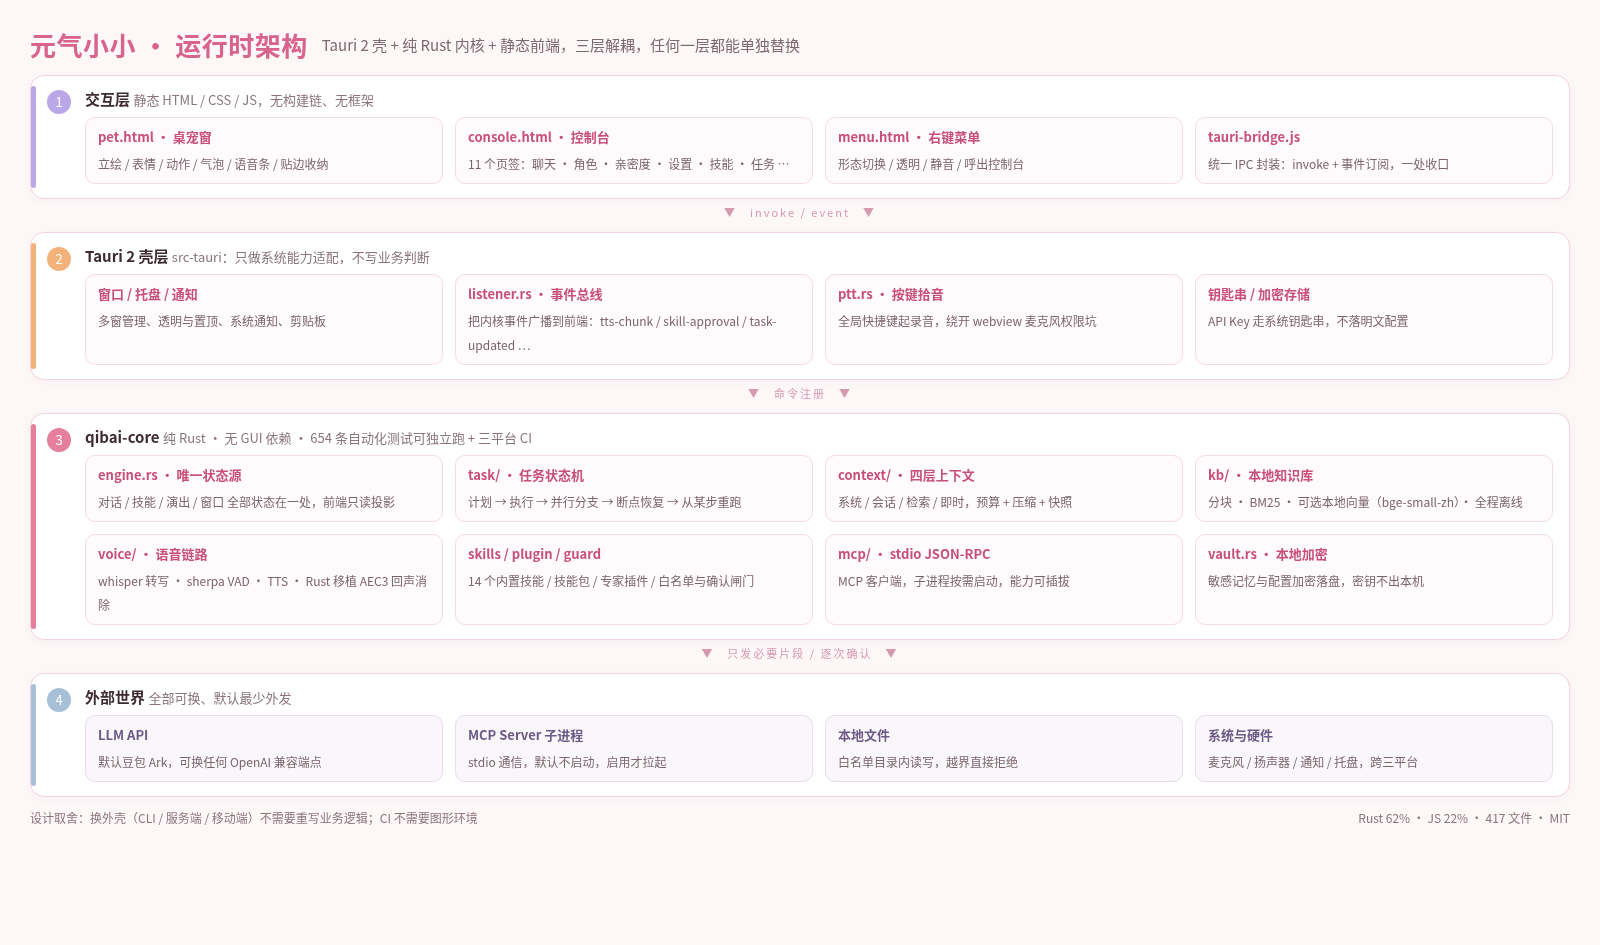
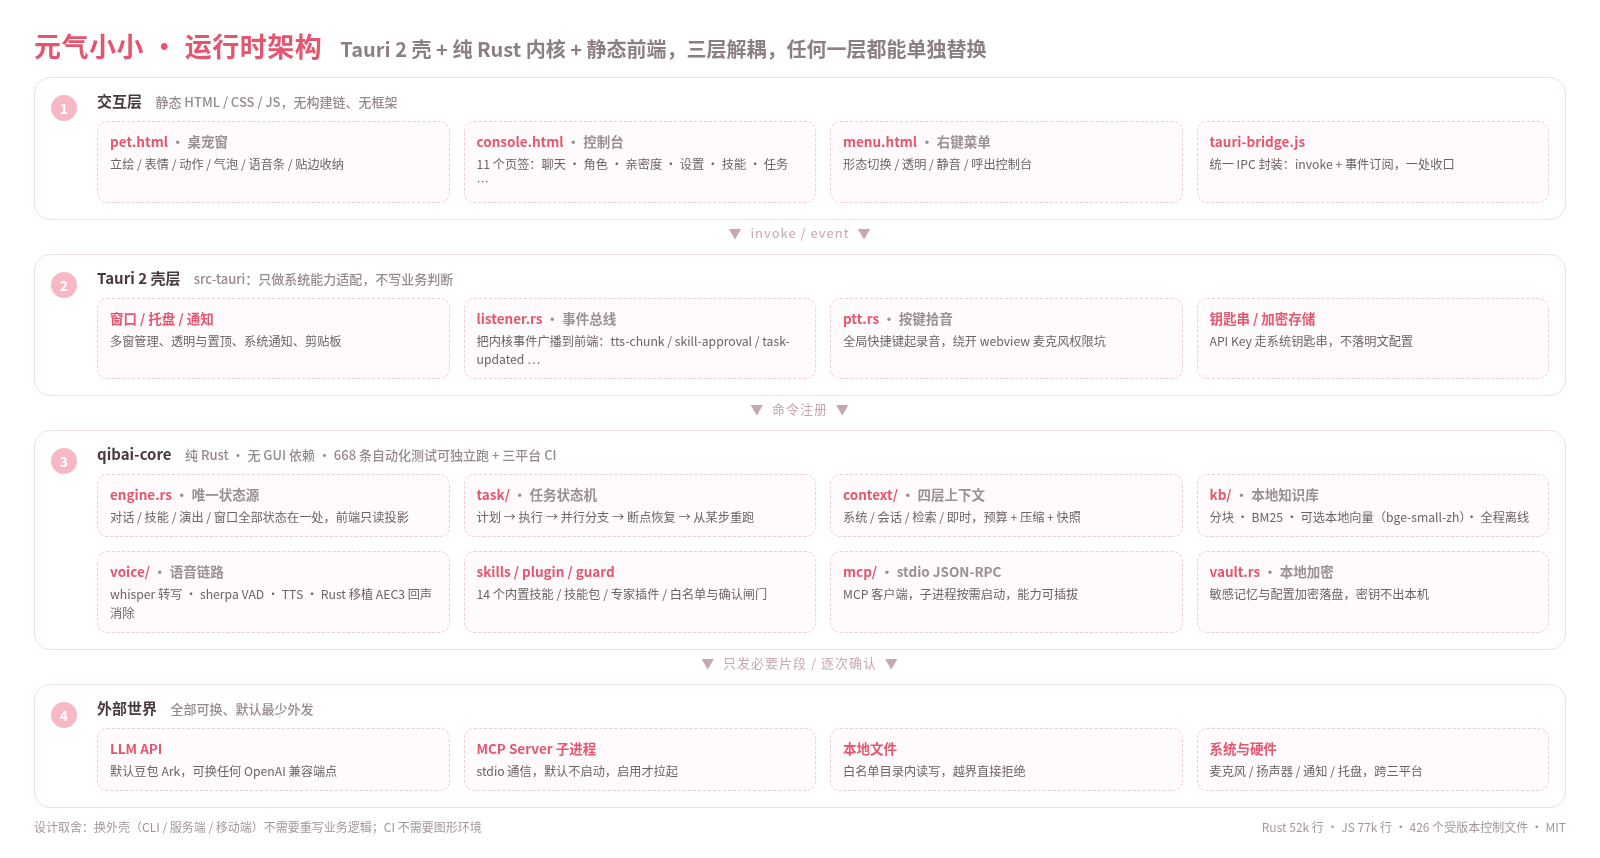
docs(assets): 三项许可核实落定 + 文档三图定版
- 许可：whisper.cpp（MIT，官方 release 二进制非 fork）、sherpa-onnx（Apache-2.0）、
  piper huayan 音色（仓库 MIT / 训练数据许可 Unknown，不做商用保证、不随包分发）、
  sonora（BSD-3-Clause）逐条写入中英双语声明，去掉全部【待核实】
- architecture.png 重制：口径由 654/648 统一为 668 条测试，去掉过期文件数口径
- console-voice.png 裁掉底部浮动按钮遮挡，1100×648
- kb-context.png 同步到对外副本（开源准备）

diff --git a/THIRD-PARTY-NOTICES.md b/THIRD-PARTY-NOTICES.md
@@ -15,17 +15,17 @@
 
 下列组件由第三方提供，适用其**各自许可**。仓库不打包这些组件的二进制与权重，仅提供获取脚本或运行时调用方式。
 
-> ⚠ **标【待核实】的条目，公开前请以你实际使用的版本内附 LICENSE 为准**，本表只记录预期的上游许可，不作为法律结论。
+> ✅ 语音链路 4 条与 `sonora` 的许可已按上游 LICENSE / 模型页核对（2026-11）。仍建议公开前复核心版本内附 LICENSE；本表为事实记录，不构成法律结论。
 
 ### 一、语音链路
 
 | 组件 | 版本 / 形态 | 预期许可 | 仓库内是否分发 | 说明 |
 |---|---|---|---|---|
-| **whisper.cpp** | 编译产物 `libwhisper.so.1.9.5`、`whisper-server`、`whisper-cli` | MIT（上游 `ggml-org/whisper.cpp`）【待核实你所用 fork】 | ❌ 由 `fetch_resources.sh` 从官方 release 下载 | 调用方式为独立进程 / 动态库，非源码内联 |
+| **whisper.cpp** | 编译产物 `libwhisper.so.1.9.5`、`whisper-server`、`whisper-cli` | **MIT**（已核对上游 `ggml-org/whisper.cpp` 的 LICENSE 原文） | ❌ 由 `fetch_resources.sh` 从官方 release（tag `b5454`）下载 | 本项目**未改造源码、非自建 fork**，只用官方预编译二进制；以独立进程 / 动态库调用 |
 | **Whisper 模型权重** `ggml-base.bin` / `ggml-small.bin` | 142 MB / ~466 MB | MIT（OpenAI Whisper 权重） | ❌ 脚本从 `hf-mirror.com/ggerganov/whisper.cpp` 下载 | 首次运行必须下载 |
-| **sherpa-onnx / Paraformer** | `paraformer.onnx`（233 MB） | Apache-2.0【待核实】 | ❌ 不入库 | 备用中文流式识别引擎 |
+| **sherpa-onnx / Paraformer** | `paraformer.onnx`（233 MB）+ `tokens.txt`、`vad.onnx`、`punc.onnx` | **Apache-2.0**（已核对 `k2-fsa/sherpa-onnx` 的 LICENSE；模型页标注 `license: apache-2.0`） | ❌ 不入库，由 `fetch_resources.sh` 下载并逐文件 sha256 校验 | 备用中文离线识别引擎（paraformer-zh int8） |
 | **piper** 引擎 | 可执行程序 | MIT | ❌ | 本地离线 TTS |
-| **piper 音色** `zh_CN-huayan-medium.onnx` | 61 MB | **各音色独立许可，部分限非商用**【必须核实】 | ❌ 不入库，建议用户自行从 `rhasspy/piper-voices` 下载 | **若该音色限非商用，不得随本项目安装包分发** |
+| **piper 音色** `zh_CN-huayan-medium.onnx` | 61 MB | 仓库整体 MIT；但该音色 MODEL_CARD 记载训练数据集 `PlayVoice/HuaYan_TTS` 许可为 **Unknown** | ❌ 不入库、不随安装包分发；用户自行从 `rhasspy/piper-voices` 下载并自判用途 | **结论：不做商用授权保证**；本项目默认 TTS 走 espeak-ng（捆绑）+ edge-tts（在线），piper 仅作可选本地女声 |
 | **bge-small-zh-v1.5**（向量模型） | `model.onnx` 91 MB + `vocab.txt` | MIT（BAAI，上游 `BAAI/bge-small-zh-v1.5`） | ❌ 不进安装包、不入库 | 知识库语义检索用；用户在应用内按需下载（Release `kb-model-v1` 仅做镜像分发，权重版权归原作者） |
 | **espeak-ng** | 二进制 + `espeak-ng-data` 语音数据（约 26 MB，解包到 `src-tauri/tts-espeak/`） | **GPL-3.0** | ❌ 不入库，`fetch_resources.sh` 从 Debian 官方包（`deb.debian.org`，1.52.0）解包组装，无需 sudo | 以独立可执行程序调用；若你选择把该二进制一起分发，须同时提供 GPL-3.0 全文与源码获取地址（https://github.com/espeak-ng/espeak-ng） |
 
@@ -38,7 +38,7 @@
 | `tokio` / `tokio-tungstenite` / `futures-util` | 异步运行时、WebSocket | MIT |
 | `reqwest`（`rustls-tls`） | HTTP 客户端 | MIT / Apache-2.0 |
 | `cpal` / `rodio` / `rubato` | 音频采集、播放、重采样 | MIT / Apache-2.0 |
-| `sonora` | WebRTC AEC3 纯 Rust 移植（回声消除） | 【待核实】 |
+| `sonora` | WebRTC AEC3 纯 Rust 移植（回声消除） | **BSD-3-Clause**（crates.io `sonora 0.3.0`） |
 | `tract-onnx` | 纯 Rust ONNX 推理（本地向量模型，免 C/C++ 依赖） | MIT / Apache-2.0 |
 | `aes-gcm` / `pbkdf2` / `sha2` / `rand` / `zeroize` | 本地保险箱加密 | MIT / Apache-2.0 |
 | `keyring` | 系统钥匙串 | MIT / Apache-2.0 |
@@ -79,17 +79,17 @@ This repository's own source is released under **MIT** (see `LICENSE`, which con
 
 The components below are provided by third parties and follow **their own licences**. This repository does not bundle their binaries or weights — it only provides fetch scripts or a runtime calling convention.
 
-> ⚠ **For items marked [TO VERIFY], before publishing, defer to the LICENSE bundled with the version you actually use.** This table records the expected upstream licence only and is not a legal conclusion.
+> ✅ Licences for the four speech-pipeline items and `sonora` were checked against upstream LICENSE files / model pages (Nov 2026). Re-check the bundled LICENSE of the exact version before publishing; this table is a factual record, not a legal conclusion.
 
 ### 1. Speech pipeline
 
 | Component | Version / form | Expected licence | Distributed in repo | Notes |
 |---|---|---|---|---|
-| **whisper.cpp** | Build artefacts `libwhisper.so.1.9.5`, `whisper-server`, `whisper-cli` | MIT (upstream `ggml-org/whisper.cpp`) [TO VERIFY for the fork you use] | ❌ downloaded from the official release by `fetch_resources.sh` | Called as a separate process / shared library, not inlined source |
+| **whisper.cpp** | Build artefacts `libwhisper.so.1.9.5`, `whisper-server`, `whisper-cli` | **MIT** (upstream `ggml-org/whisper.cpp` LICENSE checked) | ❌ downloaded by `fetch_resources.sh` from the official release (tag `b5454`) | **No source fork or modification** — official prebuilt binaries only, called as a separate process / shared library |
 | **Whisper model weights** `ggml-base.bin` / `ggml-small.bin` | 142 MB / ~466 MB | MIT (OpenAI Whisper weights) | ❌ downloaded by script from `hf-mirror.com/ggerganov/whisper.cpp` | Required on first run |
-| **sherpa-onnx / Paraformer** | `paraformer.onnx` (233 MB) | Apache-2.0 [TO VERIFY] | ❌ not in repo | Alternative Chinese streaming recogniser |
+| **sherpa-onnx / Paraformer** | `paraformer.onnx` (233 MB) + `tokens.txt`, `vad.onnx`, `punc.onnx` | **Apache-2.0** (`k2-fsa/sherpa-onnx` LICENSE checked; model card states `license: apache-2.0`) | ❌ not in repo; downloaded and sha256-verified by `fetch_resources.sh` | Alternative Chinese offline recogniser (paraformer-zh int8) |
 | **piper** engine | Executable | MIT | ❌ | Local offline TTS |
-| **piper voice** `zh_CN-huayan-medium.onnx` | 61 MB | **Each voice has its own licence; some are non-commercial only** [MUST VERIFY] | ❌ not in repo; users should download it themselves from `rhasspy/piper-voices` | **If this voice is non-commercial only, it must not ship inside an installer for this project** |
+| **piper voice** `zh_CN-huayan-medium.onnx` | 61 MB | Repo as a whole is MIT; this voice's MODEL_CARD lists its training dataset `PlayVoice/HuaYan_TTS` as **Unknown** | ❌ not in repo, not shipped in installers; users download from `rhasspy/piper-voices` and judge their own use | **Conclusion: no commercial clearance is asserted**; default TTS is espeak-ng (bundled) + edge-tts (online); piper is optional |
 | **bge-small-zh-v1.5** (embedding model) | `model.onnx` 91 MB + `vocab.txt` | MIT (BAAI, upstream `BAAI/bge-small-zh-v1.5`) | ❌ not in the installer, not in repo | Used for knowledge-base semantic retrieval; downloaded on demand in-app (the `kb-model-v1` release only mirrors it; copyright stays with the original authors) |
 | **espeak-ng** | Binary + `espeak-ng-data` voice data (~26 MB, unpacked into `src-tauri/tts-espeak/`) | **GPL-3.0** | ❌ not in repo; `fetch_resources.sh` assembles it from official Debian packages (`deb.debian.org`, 1.52.0) without sudo | Called as a separate executable; if you choose to ship that binary too, include the full GPL-3.0 text and the source URL (https://github.com/espeak-ng/espeak-ng) |
 
@@ -102,7 +102,7 @@ The components below are provided by third parties and follow **their own licenc
 | `tokio` / `tokio-tungstenite` / `futures-util` | Async runtime, WebSocket | MIT |
 | `reqwest` (`rustls-tls`) | HTTP client | MIT / Apache-2.0 |
 | `cpal` / `rodio` / `rubato` | Audio capture, playback, resampling | MIT / Apache-2.0 |
-| `sonora` | Pure-Rust port of WebRTC AEC3 (echo cancellation) | [TO VERIFY] |
+| `sonora` | Pure-Rust port of WebRTC AEC3 (echo cancellation) | **BSD-3-Clause** (crates.io `sonora 0.3.0`) |
 | `tract-onnx` | Pure-Rust ONNX inference (local embedding model, no C/C++ dependency) | MIT / Apache-2.0 |
 | `aes-gcm` / `pbkdf2` / `sha2` / `rand` / `zeroize` | Local vault encryption | MIT / Apache-2.0 |
 | `keyring` | System keychain | MIT / Apache-2.0 |
